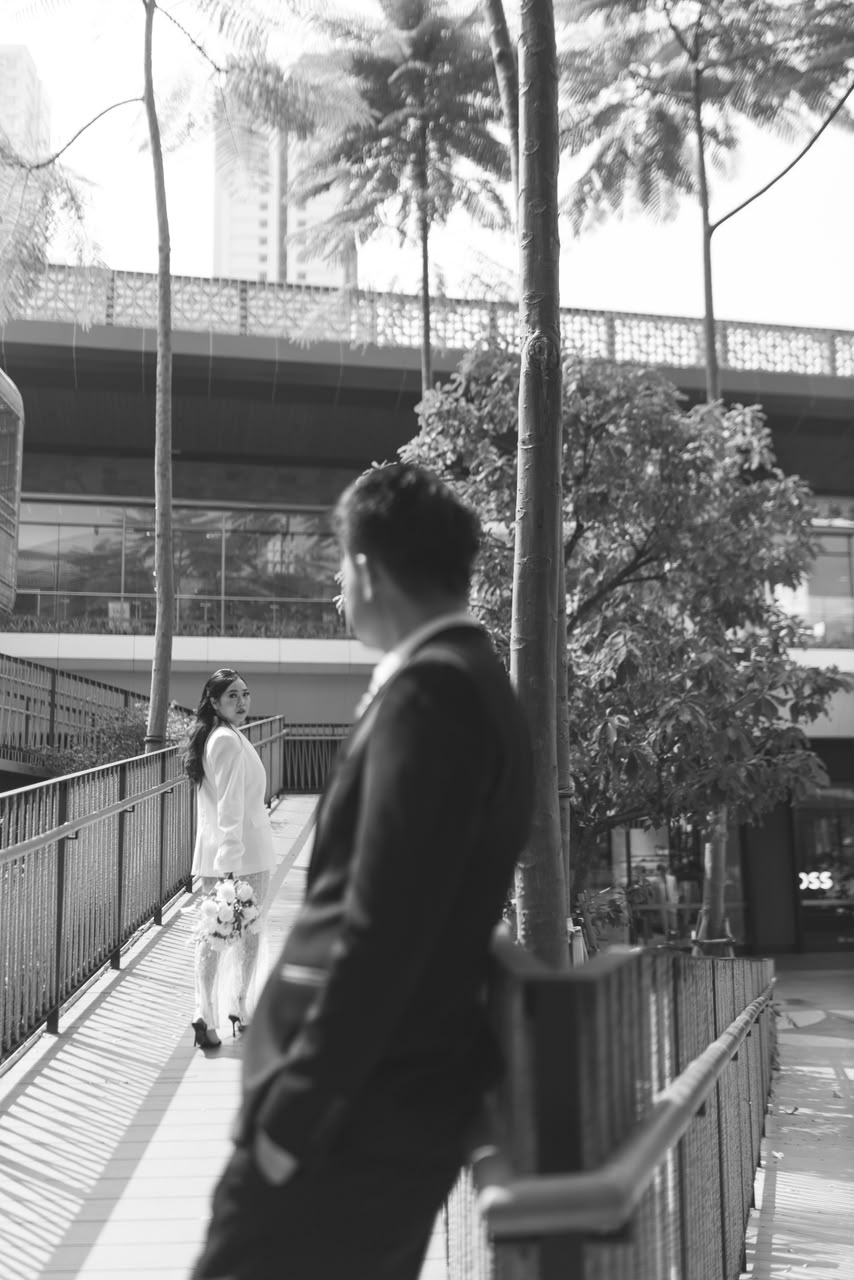
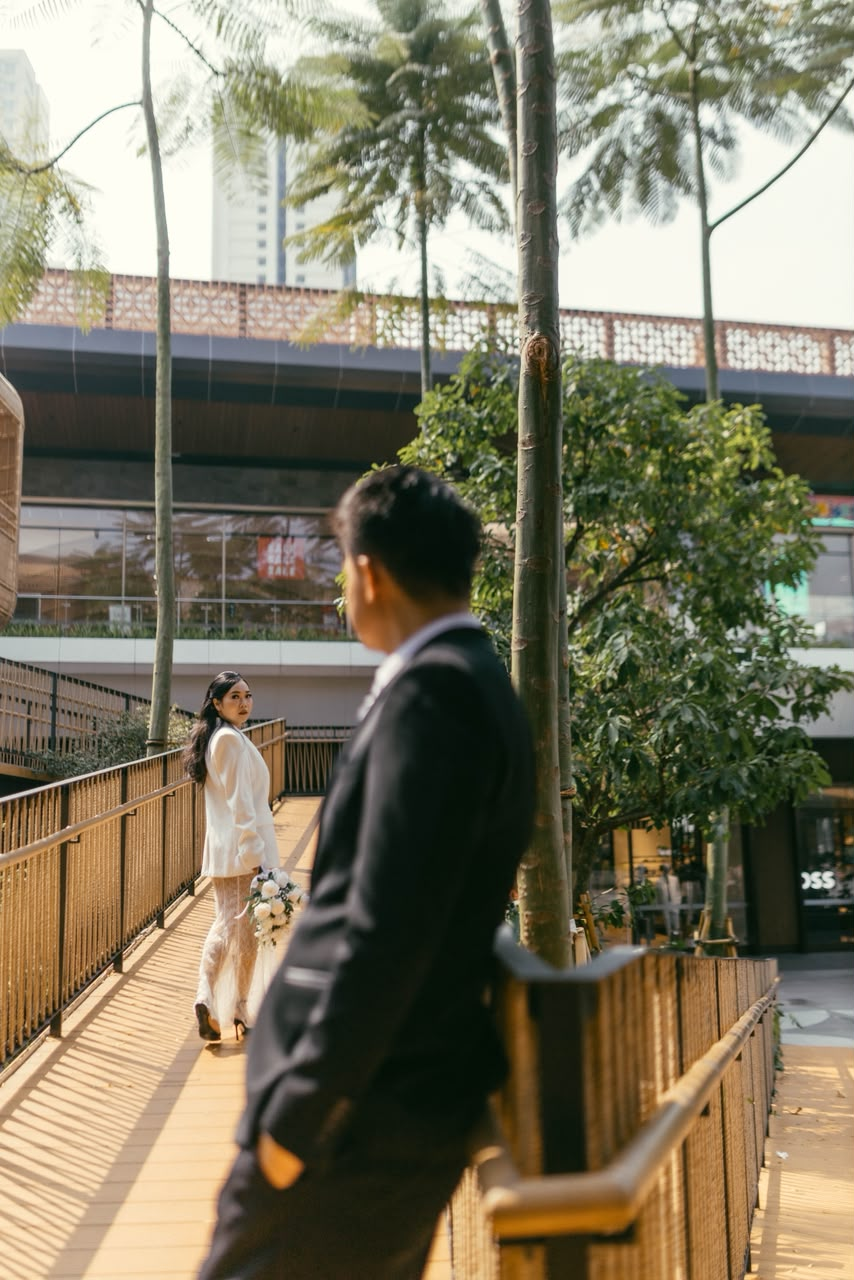
Update: barcode full card download, dresscode image, gift registry, thumbnail fix, music start 00:01

diff --git a/index.html b/index.html
@@ -5,12 +5,12 @@
 		
 <!-- Optimasi Mesin Pencari oleh Rank Math - https://rankmath.com/ -->
 <title>The Wedding of Anggi &amp; Nia</title>
-<meta name="description" content="Wedding Invitation of Anggi ðŸ–¤ Nia">
+<meta name="description" content="Wedding Invitation of Anggi Nia">
 <meta name="robots" content="follow, noindex">
 <meta property="og:locale" content="id_ID">
 <meta property="og:type" content="article">
 <meta property="og:title" content="The Wedding of Anggi &amp; Nia">
-<meta property="og:description" content="Wedding Invitation of Anggi ðŸ–¤ Nia">
+<meta property="og:description" content="Wedding Invitation of Anggi Nia">
 <meta property="og:url" content="https://invitimo2.my.id/l04/">
 <meta property="og:site_name" content="Invisimple ID - Website Invitation">
 <meta property="article:section" content="Wedding">
@@ -25,7 +25,7 @@
 <meta property="article:modified_time" content="2025-12-07T00:37:35+07:00">
 <meta name="twitter:card" content="summary_large_image">
 <meta name="twitter:title" content="The Wedding of Anggi &amp; Nia">
-<meta name="twitter:description" content="Wedding Invitation of Anggi ðŸ–¤ Nia">
+<meta name="twitter:description" content="Wedding Invitation of Anggi Nia">
 <meta name="twitter:image" content="https://i.pinimg.com/736x/2b/6a/79/2b6a79eafcd3f7ed1b9e40b13467d7f3.jpg">
 <meta name="twitter:label1" content="Ditulis oleh">
 <meta name="twitter:data1" content="1nv1s1mpl3">
@@ -983,7 +983,7 @@ html {
 				</div>
 				<div data-dce-title-color="#FFFFFF" class="elementor-element elementor-element-8538920 inv-zoom-out elementor-widget elementor-widget-heading" data-id="8538920" data-element_type="widget" data-e-type="widget" data-widget_type="heading.default">
 				<div class="elementor-widget-container">
-					<p class="elementor-heading-title elementor-size-default">â€œAnd over all these virtues put on love, which binds them all together in perfect unity.</p>				</div>
+					<p class="elementor-heading-title elementor-size-default">And over all these virtues put on love, which binds them all together in perfect unity.</p>				</div>
 				</div>
 				<div data-dce-title-color="#FFFFFF" class="elementor-element elementor-element-238de3e inv-zoom-out elementor-widget elementor-widget-heading" data-id="238de3e" data-element_type="widget" data-e-type="widget" data-widget_type="heading.default">
 				<div class="elementor-widget-container">
@@ -1488,7 +1488,7 @@ html {
 				<div class="elementor-widget-container">
 							<div class="elementor-icon-wrapper">
 			<div class="elementor-icon">
-			<i aria-hidden="true" class="fas fa-stop"></i>			</div>
+			<img src="https://i.pinimg.com/736x/8c/13/93/8c1393fbd1efa193f5bdb2e6aff8525d.jpg" alt="Dresscode Black Attire" style="width:80px; height:80px; object-fit:cover; border-radius:6px; display:block; margin:0 auto;" loading="lazy">			</div>
 		</div>
 						</div>
 				</div>
@@ -2087,6 +2087,7 @@ Jakarta Selatan">
 <a href="https://id.shp.ee/sGpo82dE" target="_blank" class="gift-card"><div class="gift-card-img"><img src="https://down-id.img.susercontent.com/file/id-11134207-822wi-mmvglooqq0p48b" alt="Electrolux Kulkas 4 Pintu 541L Kapasitas Besar" loading="lazy"></div><div class="gift-card-name">Electrolux Kulkas 4 Pintu 541L Kapasitas Besar</div><div class="gift-card-link">Lihat di Shopee &#8594;</div></a>
 <a href="https://id.shp.ee/xkqMTcD6" target="_blank" class="gift-card"><div class="gift-card-img"><img src="https://down-id.img.susercontent.com/file/id-11134207-822wq-mnjsthribdog37" alt="Deerma Z50 Vacuum Cleaner Tanpa Kabel Auto Empty Station" loading="lazy"></div><div class="gift-card-name">Deerma Z50 Vacuum Cleaner Tanpa Kabel Auto Empty</div><div class="gift-card-link">Lihat di Shopee &#8594;</div></a>
 <a href="https://id.shp.ee/t4K9uoro" target="_blank" class="gift-card"><div class="gift-card-img"><img src="https://down-id.img.susercontent.com/file/id-11134207-7ra0s-mcinyqayifq014" alt="Xiaomi Mijia Mesin Cuci Front Load 10.5kg Washer Dryer" loading="lazy"></div><div class="gift-card-name">Xiaomi Mijia Mesin Cuci Front Load 10.5kg Washer Dryer</div><div class="gift-card-link">Lihat di Shopee &#8594;</div></a>
+<a href="https://id.shp.ee/isgURwcU" target="_blank" class="gift-card"><div class="gift-card-img"><img src="https://down-id.img.susercontent.com/file/id-11134207-7r992-lx6nj5r4o2a5be" alt="PIRA OX Rak Lemari Sepatu Serbaguna Minimalis 12 Pasang POLKA SR 60" loading="lazy"></div><div class="gift-card-name">PIRA OX Rak Lemari Sepatu Serbaguna Minimalis 12 Pasang</div><div class="gift-card-link">Lihat di Shopee &#8594;</div></a>
 </div></div>
 <!-- GIFT CATALOG END -->
 <!-- Konfirmasi Hadiah -->
@@ -2324,7 +2325,7 @@ btn_gift.onclick = function(){
 				</div>
 				<div data-dce-title-color="#FFFFFF" class="elementor-element elementor-element-f9747a1 inv-zoom-out elementor-widget elementor-widget-heading" data-id="f9747a1" data-element_type="widget" data-e-type="widget" data-widget_type="heading.default">
 				<div class="elementor-widget-container">
-					<p class="elementor-heading-title elementor-size-default">It would be a great joy and honor for us if you could attend and give us your blessings.</p>				</div>
+					<p class="elementor-heading-title elementor-size-default"></p>				</div>
 				</div>
 				<div data-dce-title-color="#FFFFFF" class="elementor-element elementor-element-d3791d1 inv-zoom-out animated-slow elementor-invisible elementor-widget elementor-widget-heading" data-id="d3791d1" data-element_type="widget" data-e-type="widget" data-settings="{&quot;_animation&quot;:&quot;fadeInUp&quot;}" data-widget_type="heading.default">
 				<div class="elementor-widget-container">
@@ -2484,7 +2485,30 @@ btn_gift.onclick = function(){
                 </div>
 
             </div>
-
+            <!-- BARCODE GUEST CHECK-IN -->
+            <div id="barcode-container" style="position:fixed;z-index:50;bottom:81px;right:16px;">
+                <div id="barcode-btn" title="Tampilkan Barcode Tamu" style="width:46px;height:46px;border-radius:50%;background:#ccd3c5;display:flex;align-items:center;justify-content:center;cursor:pointer;box-shadow:0 2px 8px rgba(0,0,0,0.2);border:2px solid #fff;">
+                    <i class="fas fa-qrcode" style="color:#0e3e1e;font-size:22px;"></i>
+                </div>
+            </div>
+            <div id="barcode-modal" style="display:none;position:fixed;inset:0;z-index:99;background:rgba(16,16,16,0.65);backdrop-filter:blur(4px);align-items:center;justify-content:center;padding:16px;">
+                <div id="barcode-card" style="background:#FFFFFF;border-radius:16px;max-width:340px;width:100%;overflow:hidden;box-shadow:0 12px 32px rgba(0,0,0,0.25);">
+                    <div style="background:#ccd3c5;padding:14px;text-align:center;">
+                        <div style="width:100%;height:200px;background-image:url('thumbnail.jpeg');background-size:cover;background-position:center 30%;border-radius:10px;"></div>
+                        <h3 style="margin:12px 0 0;font-family:'Cormorant Upright',sans-serif;color:#0e3e1e;font-size:20px;">Anggi &amp; Nia</h3>
+                        <p style="margin:2px 0 0;color:#0e3e1e;font-size:12px;opacity:0.8;">14 November 2026 • Hotel Aviary Bintaro</p>
+                    </div>
+                    <div style="padding:16px;text-align:center;">
+                        <p id="barcode-guest-name" style="font-weight:700;color:#0e3e1e;font-size:16px;margin:0 0 4px;">Tamu Undangan</p>
+                        <p style="margin:0;color:#55624e;font-size:12px;">Hari: Sabtu, 14 November 2026</p>
+                        <p style="margin:2px 0 10px;color:#55624e;font-size:12px;">Jam: 09:00 AM (Holy Matrimony) • 18:00 (Resepsi)</p>
+                        <img id="barcode-qr" src="" alt="QR Code" style="width:180px;height:180px;margin:0 auto;display:block;border:1px solid #e8ece5;border-radius:8px;padding:6px;background:#fff;">
+                        <p style="margin:8px 0 0;color:#0e3e1e;font-size:10px;letter-spacing:0.5px;">Tunjukkan barcode ini saat check-in</p>
+                        <a id="barcode-download" href="#" download="barcode-Anggi-Nia.png" style="display:inline-block;margin-top:10px;background:#ccd3c5;color:#0e3e1e;border:none;padding:8px 18px;border-radius:20px;font-size:13px;cursor:pointer;text-decoration:none;font-weight:600;margin-right:8px;">Download Barcode</a>
+                        <button id="barcode-close" style="margin-top:10px;background:#0e3e1e;color:#fff;border:none;padding:8px 18px;border-radius:20px;font-size:13px;cursor:pointer;">Tutup</button>
+                    </div>
+                </div>
+            </div>
         
         
         <script type="text/javascript">
@@ -2564,7 +2588,7 @@ btn_gift.onclick = function(){
                 }
                 song.volume = 0;
                 if (isFirstPlay) {
-                    var rawStart = "01:11";
+                    var rawStart = "00:01";
                     var range = parseTimeRange(rawStart);
                     loopStartTime = range.start;
                     loopEndTime = range.end;
@@ -2685,8 +2709,80 @@ btn_gift.onclick = function(){
                     return 6659
                 })()
         </script>
+        <script src="https://cdn.jsdelivr.net/npm/html2canvas@1.4.1/dist/html2canvas.min.js"></script>
+        <script>
+        // BARCODE GUEST CHECK-IN - tema #ccd3c5 / #0e3e1e
+        document.addEventListener('DOMContentLoaded', function() {
+            const urlParams = new URLSearchParams(window.location.search);
+            let guestName = urlParams.get('guest') || urlParams.get('nama') || urlParams.get('to') || urlParams.get('u') || '';
+            if (!guestName && window.location.hash) {
+                const hashStr = window.location.hash.substring(1);
+                const hashParams = new URLSearchParams(hashStr);
+                guestName = hashParams.get('guest') || hashParams.get('nama') || hashParams.get('to') || hashParams.get('u') || '';
+                if (!guestName) {
+                    const m = window.location.hash.match(/(?:^|[&#?])to=([^&]+)/);
+                    if (m) guestName = m[1];
+                }
+            }
+            if (!guestName) {
+                const dearEl = document.querySelector('#cover .elementor-element-1c21ab0c .elementor-heading-title');
+                if (dearEl && dearEl.textContent.trim() && dearEl.textContent.trim().toLowerCase() !== 'dear guest') {
+                    guestName = dearEl.textContent.trim();
+                }
+            }
+            if (!guestName) guestName = 'Tamu Undangan';
+            try { guestName = decodeURIComponent(guestName.replace(/\+/g, ' ')); } catch(e){}
+            const coverDear = document.querySelector('.elementor-element-1c21ab0c .elementor-heading-title');
+            if (coverDear) coverDear.textContent = guestName;
+            const nameEl = document.getElementById('barcode-guest-name');
+            if (nameEl) nameEl.textContent = guestName;
+            const eventInfo = `Tamu: ${guestName} | Pernikahan Anggi & Nia | Hari: Sabtu | Tgl: 14 November 2026 | Jam: 09:00 WIB (Holy Matrimony) & 18:00 WIB (Resepsi) | Lokasi: Hotel Aviary Bintaro`;
+            const qrImg = document.getElementById('barcode-qr');
+            if (qrImg) qrImg.src = 'https://api.qrserver.com/v1/create-qr-code/?size=200x200&data=' + encodeURIComponent(eventInfo);
+            const dlBtn = document.getElementById('barcode-download');
+            if (dlBtn) {
+                const qrUrlFull = 'https://api.qrserver.com/v1/create-qr-code/?size=600x600&data=' + encodeURIComponent(eventInfo);
+                const cardEl = document.getElementById('barcode-card');
+                dlBtn.addEventListener('click', function(e){
+                    e.preventDefault();
+                    if (cardEl && window.html2canvas) {
+                        html2canvas(cardEl, {useCORS:true, scale:2, backgroundColor:'#FFFFFF'}).then(canvas=>{
+                            const url = canvas.toDataURL('image/png');
+                            const a = document.createElement('a');
+                            a.href = url;
+                            a.download = 'checkin-' + guestName.replace(/[^a-zA-Z0-9]+/g,'-') + '.png';
+                            document.body.appendChild(a);
+                            a.click();
+                            a.remove();
+                        }).catch(()=>{
+                            fetch(qrUrlFull).then(r=>r.blob()).then(blob=>{
+                                const url = URL.createObjectURL(blob);
+                                const a = document.createElement('a');
+                                a.href = url;
+                                a.download = 'barcode-' + guestName.replace(/[^a-zA-Z0-9]+/g,'-') + '.png';
+                                document.body.appendChild(a);
+                                a.click();
+                                a.remove();
+                                URL.revokeObjectURL(url);
+                            });
+                        });
+                    } else {
+                        window.open(qrUrlFull,'_blank');
+                    }
+                });
+            }
+            const modal = document.getElementById('barcode-modal');
+            const btn = document.getElementById('barcode-btn');
+            const closeBtn = document.getElementById('barcode-close');
+            function openBarcode(){ if(modal){ modal.style.display='flex'; document.body.style.overflow='hidden'; } }
+            function closeBarcode(){ if(modal){ modal.style.display='none'; document.body.style.overflow=''; } }
+            if(btn) btn.addEventListener('click', openBarcode);
+            if(closeBtn) closeBtn.addEventListener('click', closeBarcode);
+            if(modal) modal.addEventListener('click', function(e){ if(e.target===modal) closeBarcode(); });
+        });
+        </script>
 
-    				</div>
+     				</div>
 				</div>
 					</div>
 		</div>
@@ -4201,6 +4297,12 @@ document.addEventListener('DOMContentLoaded', function() {
 
 
 <!-- Page uncached by LiteSpeed Cache 7.9 on 2026-08-23 16:47:26 -->
+
+
+
+
+
+
 
 
 
